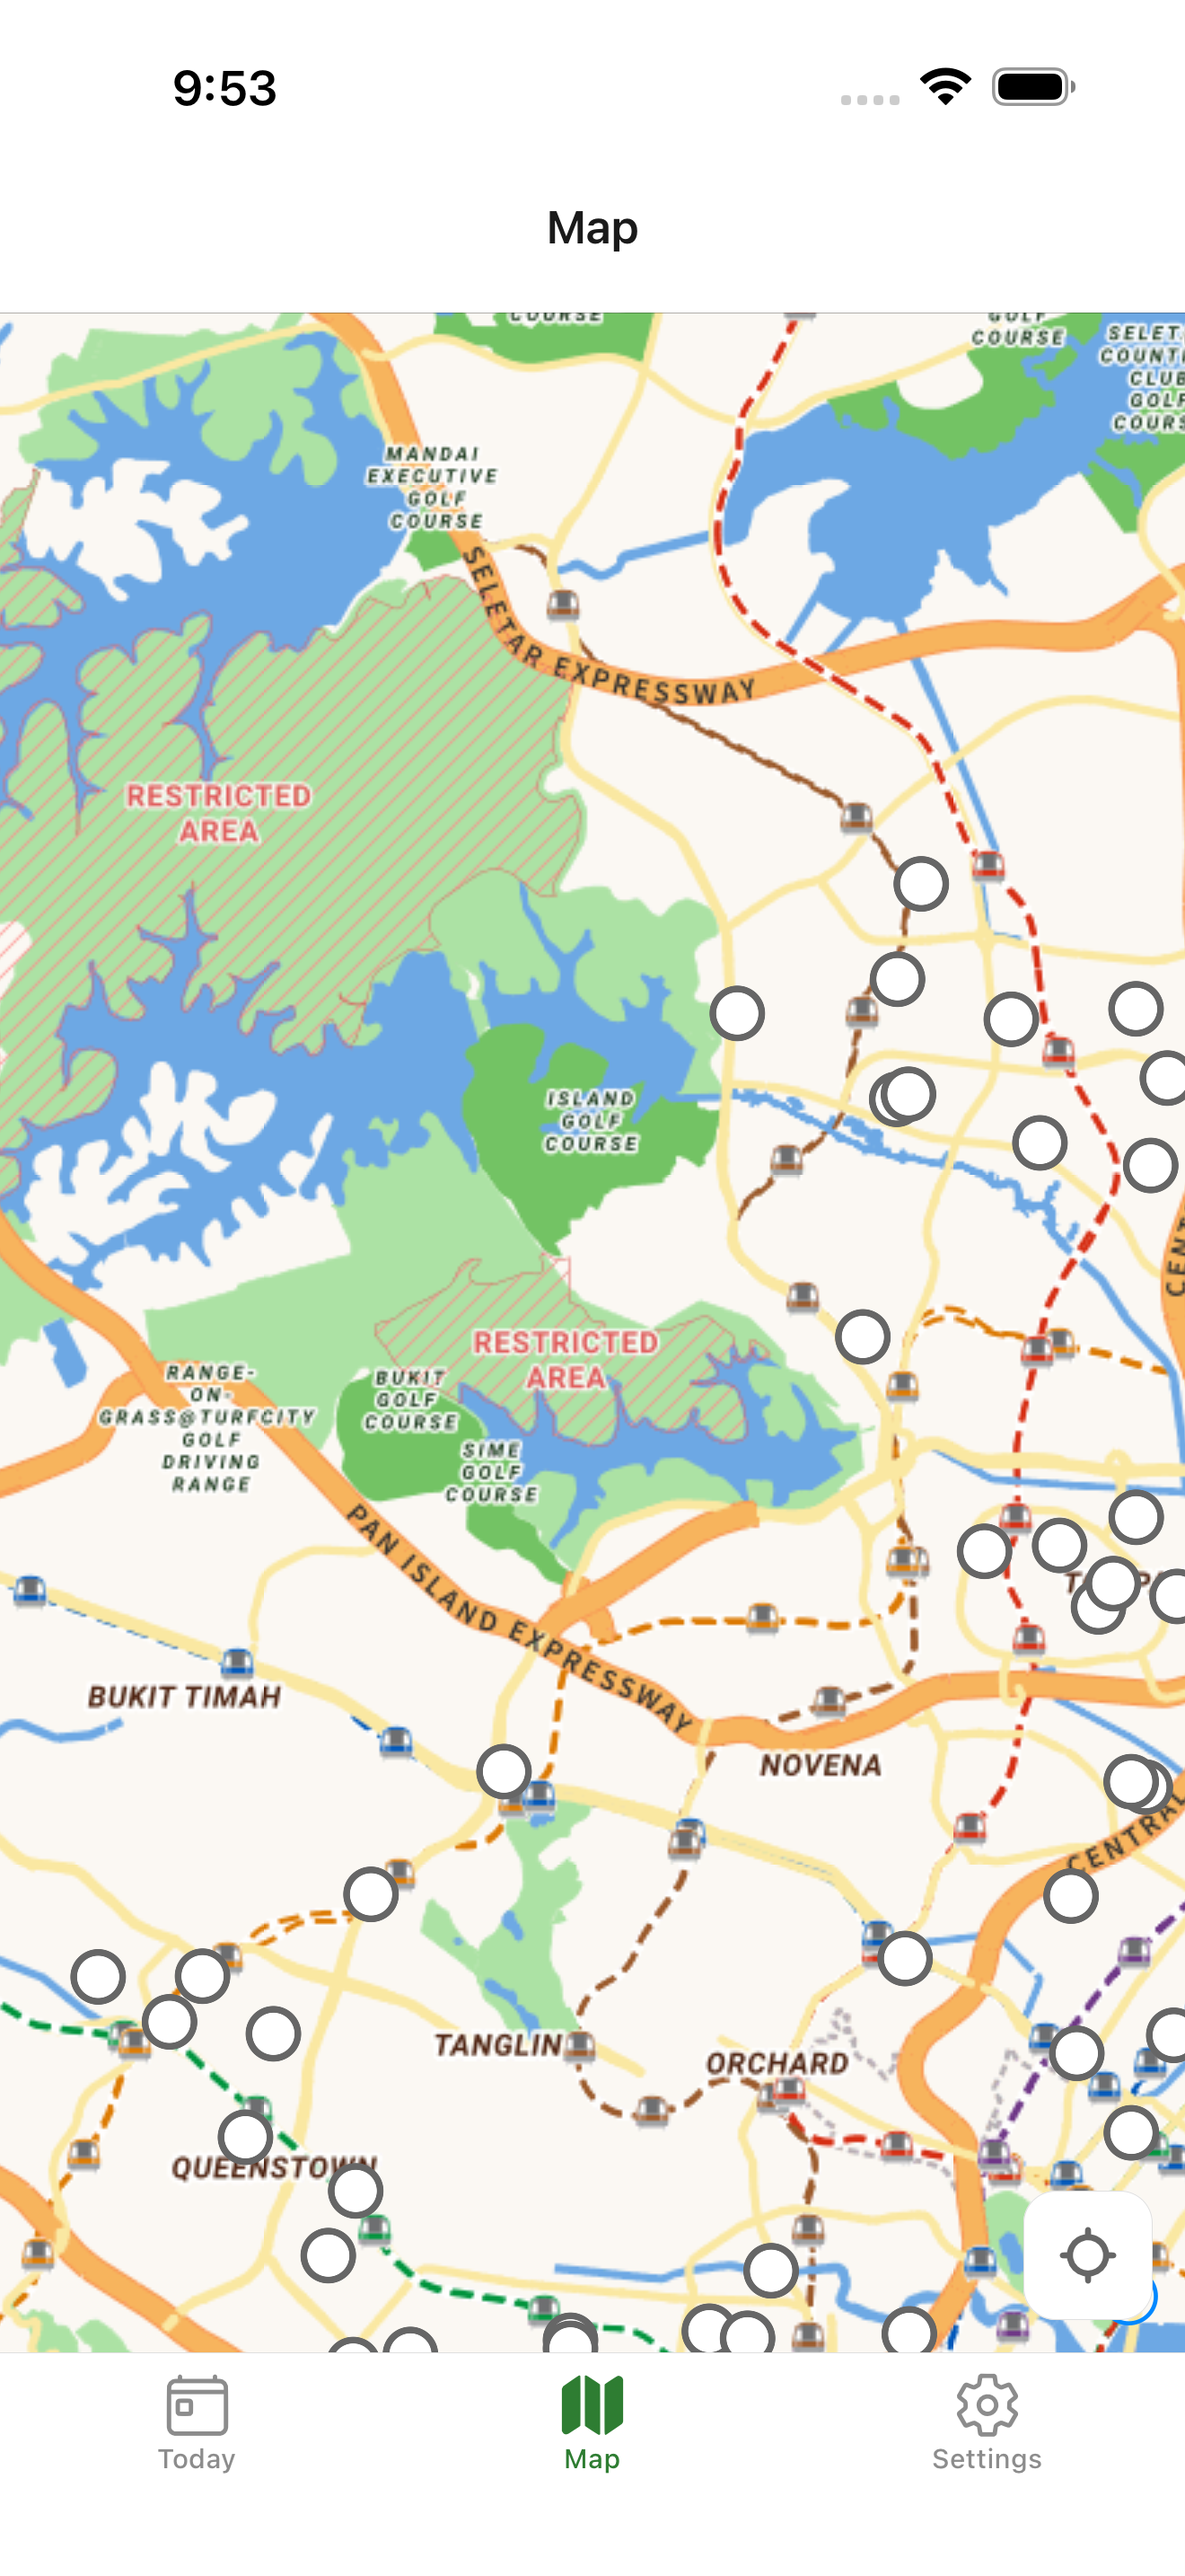
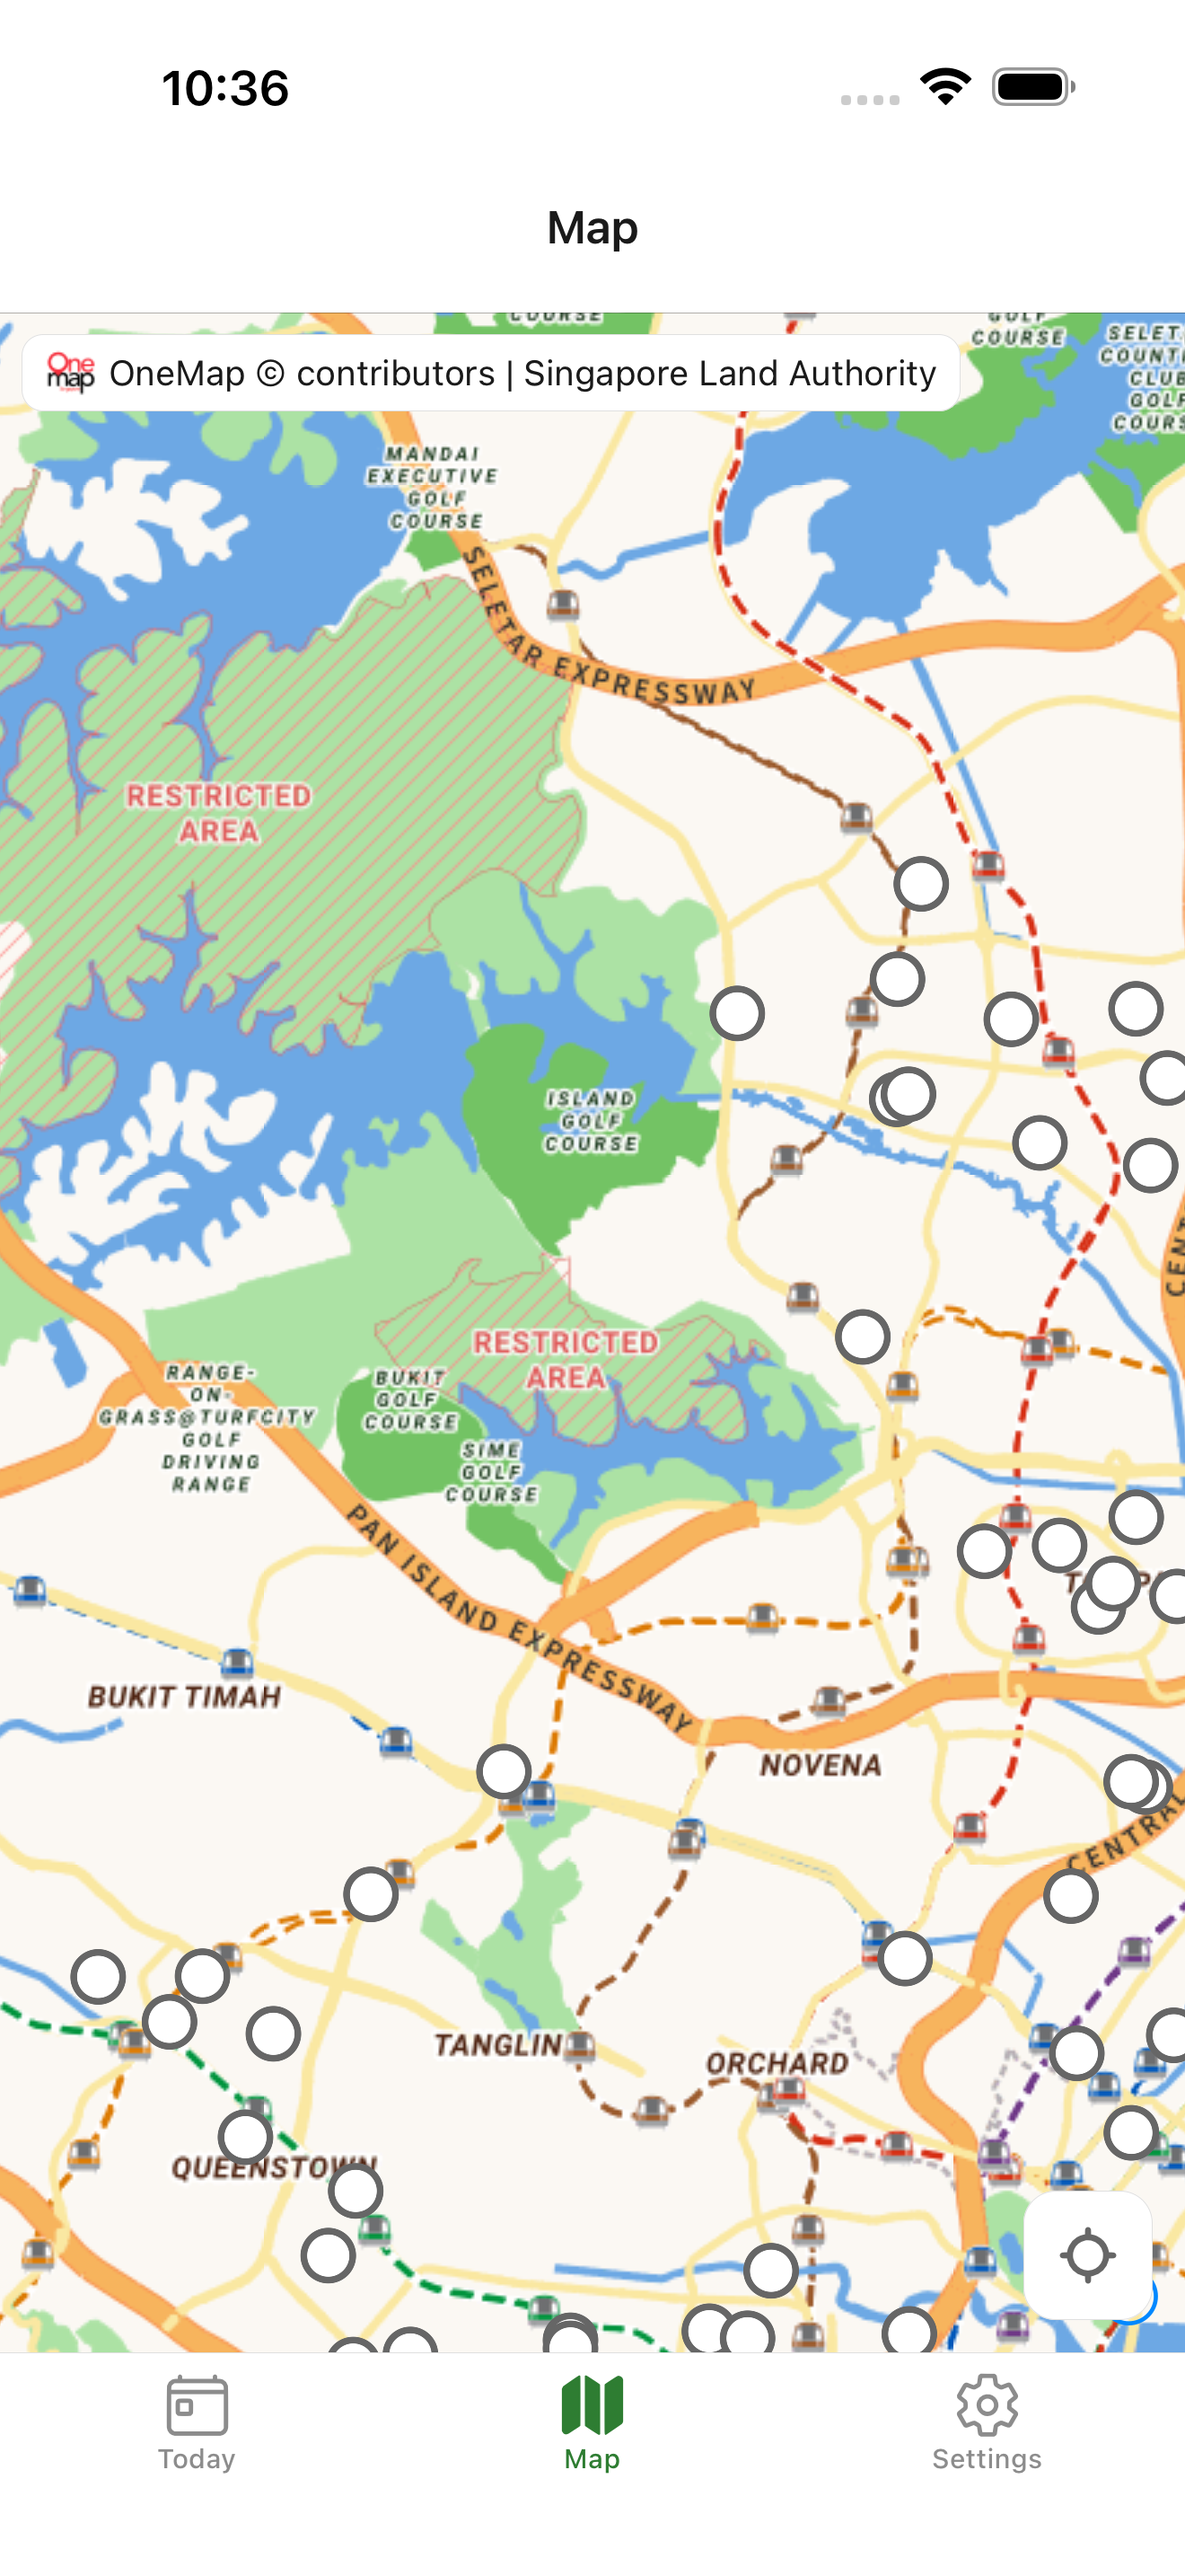
Add Android store screenshots and source attribution

Changed region(s): [[0.0311, 0.1241, 0.8076, 0.1862], [0.1553, 0.031, 0.2485, 0.0621]]

diff --git a/components/MarketMap.tsx b/components/MarketMap.tsx
@@ -1,5 +1,6 @@
 import { useEffect, useMemo, useRef, useState } from 'react';
 import { AppState, Linking, Pressable, StyleSheet, View } from 'react-native';
+import { Image } from 'expo-image';
 import {
   GeoJSONSource,
   Layer,
@@ -11,7 +12,7 @@ import Animated, { FadeIn, FadeOut } from 'react-native-reanimated';
 import ConstrainedCamera, { type ConstrainedCameraRef } from './ConstrainedCamera';
 import MapAttribution from './MapAttribution';
 import MapCallout from './MapCallout';
-import { Icon } from './ui';
+import { Icon, Text } from './ui';
 import type { Market } from '../lib/core/market-logic';
 import { SG_BOUNDS, type Center } from '../lib/core/map-bounds';
 import { MAX_MAP_ZOOM, MIN_MAP_ZOOM, type MapView } from '../lib/core/map-view';
@@ -248,6 +249,21 @@ export default function MarketMap({ markets }: { markets: Market[] }) {
         {!!coords && <UserLocation />}
       </Map>
 
+      <View
+        pointerEvents="none"
+        style={[
+          styles.attribution,
+          { backgroundColor: theme.colors.surface, borderColor: theme.colors.border },
+        ]}
+      >
+        <Image
+          source={require('../assets/attribution/onemap-logo.png')}
+          style={styles.attributionLogo}
+          accessible={false}
+        />
+        <Text variant="footnote">OneMap © contributors | Singapore Land Authority</Text>
+      </View>
+
       {!selected && (
         <Animated.View entering={FadeIn} exiting={FadeOut} style={styles.controlWrap}>
           <Pressable
@@ -285,6 +301,20 @@ export default function MarketMap({ markets }: { markets: Market[] }) {
 const styles = StyleSheet.create({
   container: { flex: 1 },
   map: { flex: 1 },
+  attribution: {
+    position: 'absolute',
+    top: space.sm,
+    left: space.sm,
+    maxWidth: '90%',
+    flexDirection: 'row',
+    alignItems: 'center',
+    gap: space.xs,
+    paddingHorizontal: space.sm,
+    paddingVertical: space.xs,
+    borderRadius: radius.pill,
+    borderWidth: StyleSheet.hairlineWidth,
+  },
+  attributionLogo: { width: 20, height: 20 },
   // Not the ui/Fab: a map control, squarer and on a surface fill, and placed by the animated
   // wrapper it fades in with rather than by itself.
   controlWrap: { position: 'absolute', right: space.md, bottom: space.md },

diff --git a/lib/i18n.ts b/lib/i18n.ts
@@ -23,7 +23,12 @@ const en = {
   otherWorks: REASON_WORDS.en.other_works.label,
   marketStalls: 'market stalls',
   foodStalls: 'food stalls',
-  dataSourceLink: 'NEA',
+  dataSourceLink: 'NEA / data.gov.sg',
+  dataLicence: 'Closure data licence',
+  mapSource: 'Map data',
+  mapSourceLink: 'OneMap / Singapore Land Authority',
+  mapLicence: 'Map data licence',
+  openDataLicence: 'Singapore Open Data Licence 1.0',
   lastUpdated: 'Last updated:',
   addMarkets: 'Add Markets',
   chooseMarkets: 'Choose Your Markets',
@@ -71,7 +76,7 @@ const en = {
   appleMaps: 'Apple Maps',
   googleMaps: 'Google Maps',
   dataSection: 'Data',
-  dataSource: 'Data source',
+  dataSource: 'Closure data',
   refreshNow: 'Refresh now',
   myMarkets: 'My Markets',
   removeAll: 'Remove all markets',
@@ -117,7 +122,12 @@ const zh: Record<keyof typeof en, string> = {
   otherWorks: REASON_WORDS.zh.other_works.label,
   marketStalls: '个巴刹摊位',
   foodStalls: '个熟食摊位',
-  dataSourceLink: '国家环境局 (NEA)',
+  dataSourceLink: '国家环境局 / data.gov.sg',
+  dataLicence: '休市数据许可',
+  mapSource: '地图数据',
+  mapSourceLink: 'OneMap / 新加坡土地管理局',
+  mapLicence: '地图数据许可',
+  openDataLicence: '新加坡开放数据许可 1.0',
   lastUpdated: '最后更新：',
   addMarkets: '添加巴刹',
   chooseMarkets: '选择您的巴刹',
@@ -163,7 +173,7 @@ const zh: Record<keyof typeof en, string> = {
   appleMaps: 'Apple 地图',
   googleMaps: 'Google 地图',
   dataSection: '数据',
-  dataSource: '数据来源',
+  dataSource: '休市数据',
   refreshNow: '立即更新',
   myMarkets: '我的巴刹',
   removeAll: '移除所有巴刹',
